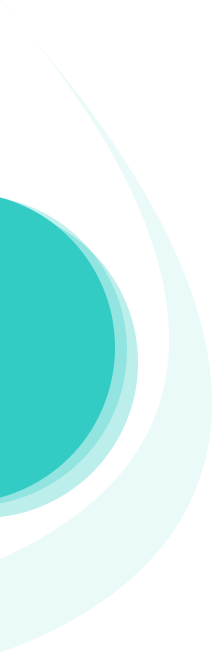
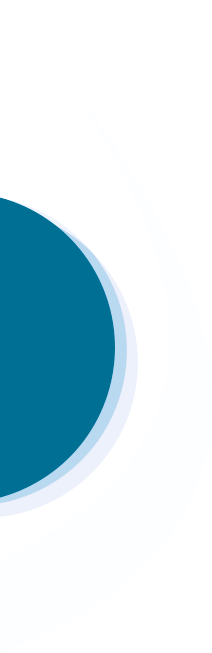
Updated website with new changes

Changed region(s): [[0.0, 0.2757, 0.6509, 0.7963]]

diff --git a/assets/css/templatemo-seo-dream.css b/assets/css/templatemo-seo-dream.css
@@ -51,9 +51,11 @@ figure, header, nav, section, article, aside, footer, figcaption {
 }
 
 .logo-img {
-  width: 160px;  /* Adjust based on your image size */
+  width: 180px;  /* Adjust based on your image size */
   height: auto;
   transition: transform 0.3s ease;
+  margin-top: 30px;
+  margin-left: 120px;
 }
 
 .logo-text {
@@ -66,7 +68,7 @@ figure, header, nav, section, article, aside, footer, figcaption {
 
 /* Hover Effects */
 .logo:hover .logo-img {
-  transform: rotate(360deg);
+  transform: rotate();
 }
 
 .logo:hover .logo-text {
@@ -250,7 +252,7 @@ body {
 
 .main-blue-button a {
   display: inline-block;
-  background-color: #4771cb;
+  background-color: #f8f8f8;
   font-size: 15px;
   font-weight: 400;
   color: #fff;
@@ -296,7 +298,7 @@ header
 */
 
 .background-header {
-  background-color: #33ccc5!important;
+  background-color: #48e4cf27!important;
   height: 80px!important;
   position: fixed!important;
   top: 0px;
@@ -331,7 +333,7 @@ header
 }
 
 .header-area {
-  background-color: #33ccc5;
+  background-color:  #a8ffff;
   position: absolute;
   top: 0px;
   left: 0px;
@@ -422,7 +424,7 @@ header
   display: block;
   font-weight: 500;
   font-size: 15px;
-  color: #fff;
+  color: rgb(24, 22, 22);
   text-transform: capitalize;
   -webkit-transition: all 0.3s ease 0s;
   -moz-transition: all 0.3s ease 0s;
@@ -436,12 +438,12 @@ header
 
 .header-area .main-nav .nav li:hover a,
 .header-area .main-nav .nav li a.active {
-  color: #fff!important;
+  color: rgb(19, 18, 18)!important;
 }
 
 .background-header .main-nav .nav li:hover a,
 .background-header .main-nav .nav li a.active {
-  color: #fff!important;
+  color: rgb(14, 13, 13)!important;
   opacity: 1;
 }
 
@@ -895,17 +897,17 @@ Banner Style
   overflow: hidden;
 }
 
-.main-banner:after {
+/* .main-banner:after {
   content: '';
   background-image: url(../images/banner-dec-left.png);
   background-repeat: no-repeat;
   position: absolute;
   left: 0;
-  top: 100px;
+  top: 320px;
   width: 212px;
   height: 653px;
   z-index: -1;
-}
+} */
 
 .main-banner:before {
   content: '';
@@ -949,12 +951,15 @@ Banner Style
   color: #2a2a2a;
   line-height: 72px;
   background: #FA9D4D;
-  background: -webkit-linear-gradient(to right, #FA9D4D 0%, #FF4F6B 100%);
-  background: -moz-linear-gradient(to right, #FA9D4D 0%, #FF4F6B 100%);
-  background: linear-gradient(to right, #FA9D4D 0%, #FF4F6B 100%);
+  background: -webkit-linear-gradient(to right, #6190E8 80%, #A7BFE8 100%);
+  background: -moz-linear-gradient(to right,  #6190E8 80%, #A7BFE8 100%);
+  background: linear-gradient(to right,  #6190E8 80%, #A7BFE8 100%);
   -webkit-background-clip: text;
   -webkit-text-fill-color: transparent;
 }
+
+
+
 
 /* .main-banner .left-content  h5{
   border-top: 1px solid #eee;
@@ -987,7 +992,7 @@ Banner Style
   line-height: 22px;
 
   /* New solid color (blue in this case) */
-  color: #007bff;
+  color: #222425;
 
   /* Comment out the gradient properties */
   /* background: #FA9D4D; */

diff --git a/index.html b/index.html
@@ -4,19 +4,19 @@
     <link
       rel="icon"
       type="image/png"
-      href="./assets/images/favicon/favicon-96x96.png"
+      href="./assets/images/Fevicon.png"
       sizes="96x96"
     />
     <link
       rel="icon"
       type="image/svg+xml"
-      href="./assets/images/favicon/favicon.svg"
+      href="./assets/images/Fevicon.png"
     />
-    <link rel="shortcut icon" href="./assets/images/favicon/favicon.ico" />
+    <link rel="shortcut icon" href="./assets/images/Fevicon.png" />
     <link
       rel="apple-touch-icon"
       sizes="180x180"
-      href="./assets/images/favicon/apple-touch-icon.png"
+      href="./assets/images/Fevicon.png"
     />
     <link rel="manifest" href="./assets/images/favicon/site.webmanifest" />
 
@@ -72,16 +72,11 @@
               <a href="index.html" class="logo">
                 <div class="logo-container">
                   <img
-                    src="assets/images/aa.png"
+                    src="assets/images/Logo-V2.png"
                     alt="Artilliance Logo"
                     class="logo-img"
                   />
-                  <h4>
-                    ARTILLIANCE
-
-                    <!-- <img src="assets/images/logo-icon.png" alt="" /> -->
-                  </h4>
-                  |
+                 
                 </div>
               </a>
               <!-- ***** Logo End ***** -->
@@ -891,7 +886,7 @@
     </footer>
 
     <!-- Scripts -->
-    <script>
+    <!-- <script>
       document
         .getElementById("contact")
         .addEventListener("submit", function (e) {
@@ -932,7 +927,7 @@
               });
             });
         });
-    </script>
+    </script> -->
     <script src="vendor/jquery/jquery.min.js"></script>
     <script src="vendor/bootstrap/js/bootstrap.bundle.min.js"></script>
     <script src="assets/js/owl-carousel.js"></script>
